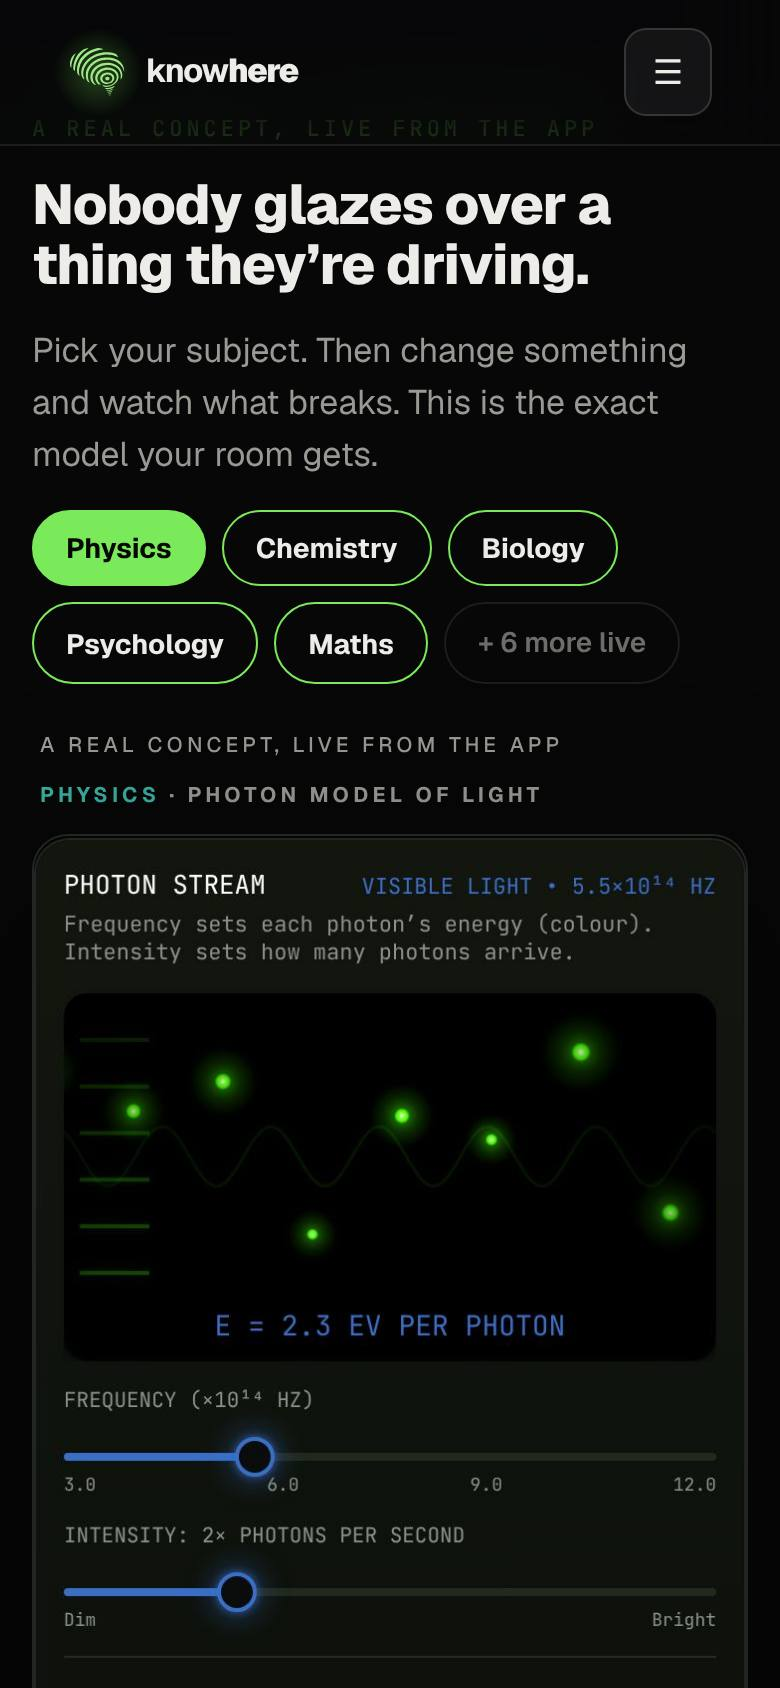
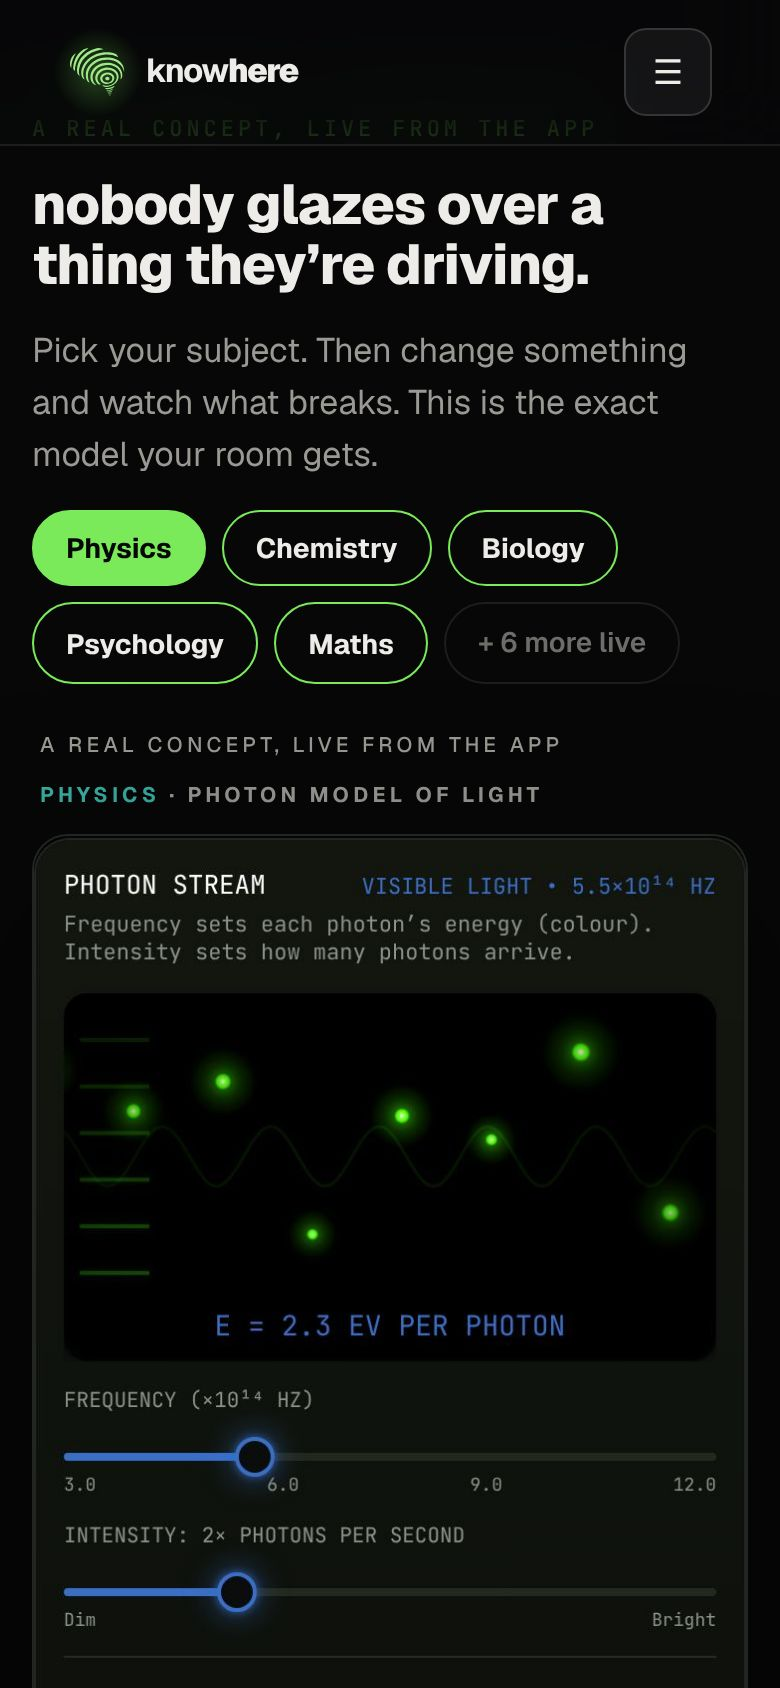
for-teachers v2: lowercase headings like the site; no stale crop on a fast pill tap
- Headings follow the site's lowercase rule (Cat, 5 Nov: consistency over the mockup's case).
- A pill tapped while the first widget was still settling could show the raw, uncropped widget
  for ~3 s (1 in 12 taps in the rig): the old load's retry timers now stand down once a new
  subject is picked, and tapping the pill already showing does nothing. crop() unchanged.
- Rig: a 12-tap check for that flash (old page 1/12, now 0/12). Receipts refreshed, ALL PASS.

Claude-Session: https://claude.ai/code/session_01WVwU9MB4WpVxkWaqHceQfY

Changed region(s): [[0.0308, 0.0924, 0.8, 0.154]]

diff --git a/for-teachers.html b/for-teachers.html
@@ -298,7 +298,6 @@ html.kw-snap{scroll-snap-type:y proximity}
 .kt2 .subjects span a{color:var(--brat);text-decoration:none;font-size:10px;letter-spacing:.06em}
 .kt2 .subjects span a:hover{text-decoration:underline}
 .kt2 .subjects span.soon{color:var(--dimmer);border-style:dashed}
-.kt2 h1,.kt2 h2,.kt2 h3{text-transform:none}
 .kt2 .offer h2.offer-t{font-size:22px;font-weight:800;line-height:1.15}
 .kt2 .ks-stage .poster{position:relative;inset:auto;display:block;min-height:0}
 .kt2 .ks-stage .poster img{display:block;width:100%;height:auto}
@@ -656,7 +655,7 @@ window.KWTeachersV2 = function(root){
   ORDER.forEach(function(k){
     var b = document.createElement('button'); b.type='button'; b.className='pill'; b.textContent=SUBJECTS[k].label;
     b.setAttribute('aria-pressed', k===current ? 'true':'false');
-    b.addEventListener('click', function(){ if (k !== current) kwTrack('subject_pill', {subject:k}); setSubject(k); });
+    b.addEventListener('click', function(){ if (k === current) return; kwTrack('subject_pill', {subject:k}); setSubject(k); });
     pills.appendChild(b);
   });
   var more = document.createElement('span'); more.className='pill more'; more.textContent='+ 6 more live'; pills.appendChild(more);
@@ -715,7 +714,8 @@ window.KWTeachersV2 = function(root){
       return true;
     }catch(e){ return false; }
   }
-  frame.addEventListener('load', function(){ crop(); setTimeout(crop,300); setTimeout(crop,1200); setTimeout(function(){ try{ var fd = frame.contentDocument; if (fd && fd.querySelector('canvas,svg,input,button')) stage.classList.add('ready'); }catch(e){} },1800); });
+  var loadGen = 0;
+  frame.addEventListener('load', function(){ var g = loadGen; var mine = function(fn){ return function(){ if (g === loadGen) fn(); }; }; crop(); setTimeout(mine(crop),300); setTimeout(mine(crop),1200); setTimeout(mine(function(){ try{ var fd = frame.contentDocument; if (fd && fd.querySelector('canvas,svg,input,button')) stage.classList.add('ready'); }catch(e){} }),1800); });
   window.addEventListener('resize', kick);
 
   var ci = document.getElementById('ci'), myCall = '';
@@ -725,7 +725,7 @@ window.KWTeachersV2 = function(root){
     document.getElementById('ks-subject').textContent = S.label;
     document.getElementById('ks-concept').textContent = S.concept;
     document.getElementById('ks-link').href = S.url;
-    stage.classList.remove('ready'); cropDone = false;
+    loadGen++; stage.classList.remove('ready'); cropDone = false;
     try{ document.getElementById('ks-poster-m').srcset = POSTER(k,'m'); var pd = document.getElementById('ks-poster-d'); pd.src = POSTER(k,'d'); pd.alt = S.concept + ', a live knowhere concept.'; }catch(e){}
     frame.src = S.widget; frame.title = S.concept + ' — a live knowhere concept';
     Array.prototype.forEach.call(document.querySelectorAll('.cta-seat'), function(a){ try{ var u = new URL(a.href, location.href); u.searchParams.set('as','teacher'); u.searchParams.set('subject', k); a.href = u.toString(); }catch(e){ a.href = 'https://app.knowhere.me/signup?as=teacher&subject=' + k; } });

diff --git a/_patches/for-teachers-v2/receipts-rig.js b/_patches/for-teachers-v2/receipts-rig.js
@@ -134,6 +134,24 @@ const evs = p => p.evaluate(() => window.__ev);
     await ctx.close();
   }
 
+  console.log('\n4b · a pill tapped while the first widget is still settling never shows it uncropped');
+  { let flashes = 0, runs = 0, worst = 0;
+    for (const first of ['Physics', 'Chemistry']) for (const delay of [0, 100, 250, 500, 900, 1300]) {
+      const ctx = await ctxOf(b, { viewport: { width: 1440, height: 900 } });
+      const p = await ctx.newPage();
+      await p.goto(BASE + '/for-teachers', { waitUntil: 'load' });
+      await p.waitForTimeout(delay);
+      await p.evaluate(() => { window.__bad = 0; const t0 = performance.now(); const iv = setInterval(() => { const st = document.getElementById('ks-stage'); let card = false;
+        try { const d = document.getElementById('ks-frame').contentDocument; card = !!(d && d.querySelector('[data-kw=card]')); } catch (e) {}
+        if (st.classList.contains('ready') && !card) window.__bad += 20; if (performance.now() - t0 > 4000) clearInterval(iv); }, 20); });
+      await p.click(`.pill:has-text("${first}")`);
+      await p.waitForTimeout(4200);
+      const bad = await p.evaluate(() => window.__bad); runs++; if (bad > 0) { flashes++; worst = Math.max(worst, bad); }
+      await ctx.close();
+    }
+    ok(flashes === 0, `${runs} taps at 0–1300 ms after load: ${flashes} showed the uncropped widget` + (flashes ? ` (worst ~${worst} ms)` : ''));
+  }
+
   console.log('\n5 · desktop: THE CLASSROOM steps four beats');
   {
     const ctx = await ctxOf(b, { viewport: { width: 1440, height: 900 } });

diff --git a/_patches/for-teachers-v2/build.py b/_patches/for-teachers-v2/build.py
@@ -106,8 +106,7 @@ css = swap(css, 'animation:kwBreathe 3.2s', 'animation:kt2RunBreathe 3.2s')
 css = swap(css, '@keyframes kwBreathe{', '@keyframes kt2RunBreathe{')
 CSS = scope(css)
 assert 'kwBreathe' not in CSS and '.kt2 .notes' not in CSS and '.kt2 footer' not in CSS
-# the site's head lower-cases every h1-h3 and .cta; the goated mockup is sentence case, so this page opts out
-CSS += '\n.kt2 h1,.kt2 h2,.kt2 h3{text-transform:none}'
+# headings follow the site: the head lower-cases every h1-h3 (Cat, 5 Nov: consistency over the mockup's sentence case)
 CSS += '\n.kt2 .offer h2.offer-t{font-size:22px;font-weight:800;line-height:1.15}'
 # the poster: in flow (it sets the stage height) until the cropped widget is ready, then the iframe takes over
 CSS += ('\n.kt2 .ks-stage .poster{position:relative;inset:auto;display:block;min-height:0}'
@@ -208,7 +207,7 @@ s = swap(s, "  var ORDER = ['physics','chemistry','biology','psychology','maths'
 s = swap(s, "p.get('acq_ad')||p.get('utm_content')||p.get('subject')||location.hash.slice(1)||''", "p.get('acq_ad')||p.get('utm_content')||p.get('subject')||''")
 # Umami: subject_pill on a tap (never on the boot pre-select)
 s = swap(s, "b.addEventListener('click', function(){ setSubject(k); });",
-         "b.addEventListener('click', function(){ if (k !== current) kwTrack('subject_pill', {subject:k}); setSubject(k); });")
+         "b.addEventListener('click', function(){ if (k === current) return; kwTrack('subject_pill', {subject:k}); setSubject(k); });")
 s = swap(s, "  function fromAd(){",
          "  function kwTrack(name, data){ try{ if (window.umami){ data = data || {}; data.page = location.pathname; window.umami.track(name, data); } }catch(e){} }\n  function fromAd(){")
 # hero_interact: the first touch inside the cropped widget, once per page view, tagged with the subject
@@ -238,6 +237,12 @@ s = swap(s, "document.getElementById('ci-reveal-btn').addEventListener('click', 
 # the 1.8 s fallback shows an uncroppable widget whole, but never swaps the poster for a frame that did not load a widget
 s = swap(s, "setTimeout(function(){ stage.classList.add('ready'); },1800); });",
          "setTimeout(function(){ try{ var fd = frame.contentDocument; if (fd && fd.querySelector('canvas,svg,input,button')) stage.classList.add('ready'); }catch(e){} },1800); });")
+# a load's retry timers belong to that load: a pill tapped mid-load must not let the old page's timers mark the crop done
+s = swap(s, "  frame.addEventListener('load', function(){ crop(); setTimeout(crop,300); setTimeout(crop,1200); setTimeout(function(){ try{",
+         "  var loadGen = 0;\n  frame.addEventListener('load', function(){ var g = loadGen; var mine = function(fn){ return function(){ if (g === loadGen) fn(); }; }; crop(); setTimeout(mine(crop),300); setTimeout(mine(crop),1200); setTimeout(mine(function(){ try{")
+s = swap(s, "if (fd && fd.querySelector('canvas,svg,input,button')) stage.classList.add('ready'); }catch(e){} },1800); });",
+         "if (fd && fd.querySelector('canvas,svg,input,button')) stage.classList.add('ready'); }catch(e){} }),1800); });")
+s = swap(s, "    stage.classList.remove('ready'); cropDone = false;\n", "    loadGen++; stage.classList.remove('ready'); cropDone = false;\n")
 # the mockup's footer year + notes panel are gone
 s = swap(s, "  document.getElementById('yr').textContent = new Date().getFullYear();\n", '')
 s = re.sub(r"  var nb = document.getElementById\('notes-btn'\).*?\n.*?\n", '', s)
